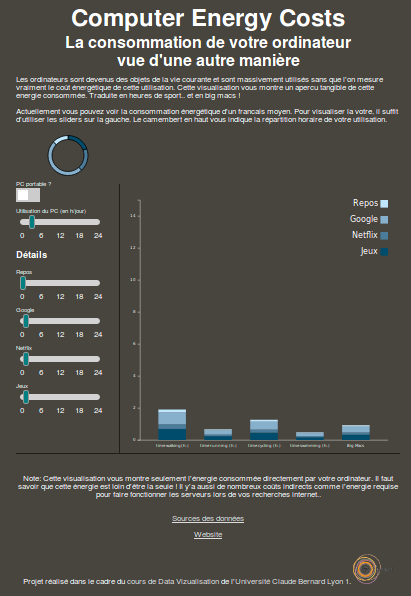
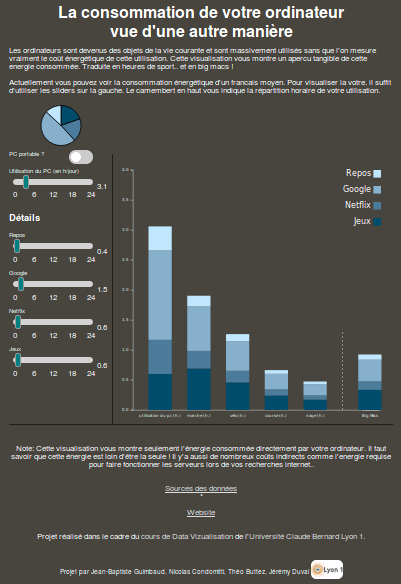
maj readme img 500x300

Changed region(s): [[0.0, 0.0, 0.9875, 1.0], [0.8379, 0.2774, 0.9576, 0.4315], [0.2993, 0.2774, 0.3292, 0.3082]]

diff --git a/README.md b/README.md
@@ -3,7 +3,6 @@ Today, the question of our impact on the environment is really important. But we
 
 Our goal with this project is to raise awareness among general public about the energetic cost induced by our own computer usages with proposing to highlight theres costs with familiar concepts for non expert peoples with concrete scales (ex: physical efforts, hamburgers numbers express in calorie, ...).
 
-<img src="ressources/readme_glview.png" alt="Global View" width="50%" height="auto"/> 
 <img src="ressources/readme_chview.png" alt="Charts View" width="70%" height="auto"/>
 
 This project is realise within the scope of the Data Vizualisation course of Lyon 1 University M2 IA :
@@ -37,7 +36,6 @@ Aujourdh'ui, la question de notre impact energétique est une des questions les 
 Notre but est donc de sensibiliser le grand publique au coût énergétique induit par sa propre utilisation de l'ordinateur en proposant de mettre ces coûts en évidence en les traduisant en divers concepts familiers à une personne non experte (ex : effort physique, nombre de hamburgers en terme de calories, etc), par le biai d'utilisation de "concrete scales".
 
 
-<img src="ressources/readme_glview.png" alt="Global View" width="50%" height="auto"/> 
 <img src="ressources/readme_chview.png" alt="Charts View" width="70%" height="auto"/>
 
 Ce projet est réalisé dans le cadre du cours de Data Vizualisation du M2 IA de l'université Lyon 1 :
